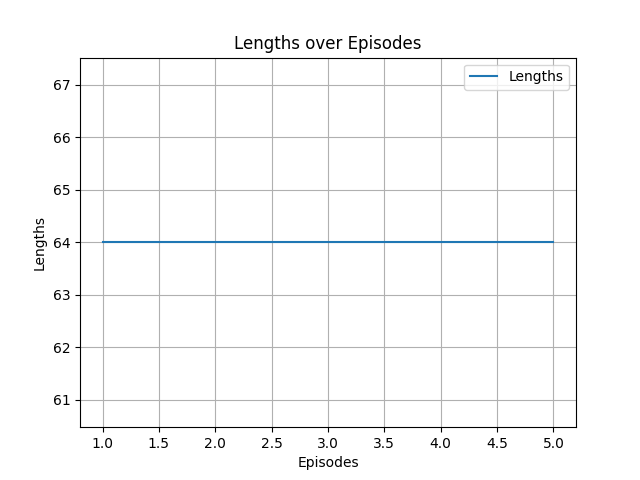
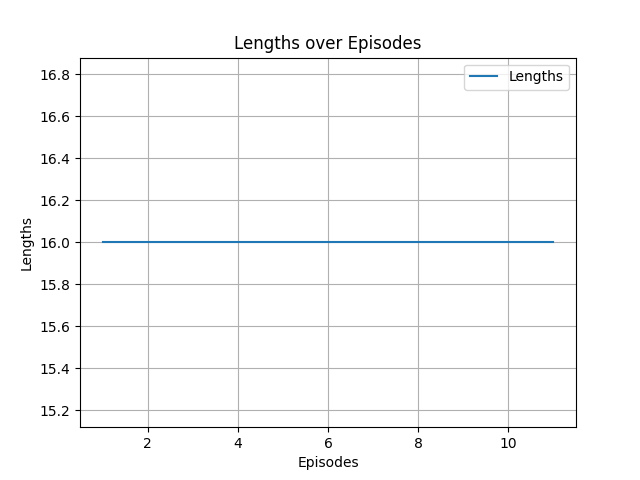
fixed plotting issues

diff --git a/visualize_metrics.py b/visualize_metrics.py
@@ -3,7 +3,6 @@ import matplotlib.pyplot as plt
 import os
 import re
 
-
 def parse_log_file(log_file):
     """
     Parse the log file to extract metrics for visualization.
@@ -26,38 +25,44 @@ def parse_log_file(log_file):
 
     # Precompile regex patterns for efficiency
     patterns = {
-        "episode": re.compile(r"Starting episode (\d+)"),
-        "reward": re.compile(r"Episode \d+ \| Reward: ([\d.]+) \| Length: (\d+)"),
+        "episode": re.compile(r"^Episode (\d+)"),
+        "reward": re.compile(r"^Reward: ([\d.]+)"),
+        "length": re.compile(r"^Length: (\d+)"),
         "policy_loss": re.compile(r"Policy Loss: ([\d\-.]+)"),
         "value_loss": re.compile(r"Value Loss: ([\d\-.]+)"),
         "entropy": re.compile(r"Entropy: ([\d.]+)")
     }
 
+    current_episode = None  # Track the current episode being processed
+
     with open(log_file, "r") as file:
         for line in file:
-            # Match episode start
+            # Match episode number
             if match := patterns["episode"].match(line):
-                metrics["episodes"].append(int(match.group(1)))
+                current_episode = int(match.group(1))
+                metrics["episodes"].append(current_episode)
 
-            # Match reward and length
-            if match := patterns["reward"].match(line):
+            # Match reward
+            elif match := patterns["reward"].match(line):
                 metrics["rewards"].append(float(match.group(1)))
-                metrics["lengths"].append(int(match.group(2)))
+
+            # Match length
+            elif match := patterns["length"].match(line):
+                metrics["lengths"].append(int(match.group(1)))
 
             # Match policy loss
-            if match := patterns["policy_loss"].match(line):
+            elif match := patterns["policy_loss"].match(line):
                 metrics["policy_losses"].append(float(match.group(1)))
 
             # Match value loss
-            if match := patterns["value_loss"].match(line):
+            elif match := patterns["value_loss"].match(line):
                 metrics["value_losses"].append(float(match.group(1)))
 
             # Match entropy
-            if match := patterns["entropy"].match(line):
+            elif match := patterns["entropy"].match(line):
                 metrics["entropies"].append(float(match.group(1)))
 
     return metrics
-
 
 def plot_metrics(metrics, save_dir=None):
     """
@@ -94,41 +99,14 @@ def plot_metrics(metrics, save_dir=None):
         else:
             plt.show()
 
-
 def visualize_metrics(log_file=None, csv_file=None, save_dir=None):
-    """
-    Parse log or CSV file and generate plots for visualization.
-
-    :param log_file: Path to the log file (optional).
-    :param csv_file: Path to the CSV file (optional).
-    :param save_dir: Directory to save the plots (optional).
-    """
-    if not log_file and not csv_file:
-        raise ValueError("Either log_file or csv_file must be provided.")
-
-    # Parse data from the appropriate source
-    if log_file:
-        print(f"Parsing log file: {log_file}")
-        metrics = parse_log_file(log_file)
-    elif csv_file:
-        print(f"Parsing CSV file: {csv_file}")
-        if not os.path.exists(csv_file):
-            raise FileNotFoundError(f"CSV file not found: {csv_file}")
-        df = pd.read_csv(csv_file)
-        metrics = {col.lower(): df[col].tolist() for col in df.columns}
-
-    # Generate plots
+    metrics = parse_log_file(log_file)
     print("Generating plots...")
     plot_metrics(metrics, save_dir)
 
-
 # Example usage
 if __name__ == "__main__":
-    log_file_path = "logs/fpa_game_logs_20241204-231152.log"
-    csv_file_path = "Model Checkpoints/training_metrics.csv"  # CSV file path
+    log_file_path = "logs/fpa_game_logs_20241204-235814.log"
     save_plots_directory = "plots"  # Directory to save plots
-
-    # Call visualization
     visualize_metrics(log_file=log_file_path, save_dir=save_plots_directory)
-    # OR
-    # visualize_metrics(csv_file=csv_file_path, save_dir=save_plots_directory)
+    print("Visualization complete.")

diff --git a/train.py b/train.py
@@ -47,17 +47,6 @@ logger.handlers.clear()  # Remove existing handlers
 logger.addHandler(console_handler)  # Add the console handler
 logger.addHandler(logging.FileHandler(log_filename))  # Add the file handler with a unique name
 
-def save_metrics(metrics, save_dir, episode_count):
-    """
-    Save metrics to a file for later analysis.
-    """
-    metrics_file = os.path.join(save_dir, "metrics.csv")
-    with open(metrics_file, "a") as f:
-        if episode_count == 1:  # Write header on the first save
-            f.write("Episode,Reward,Length,PolicyLoss,ValueLoss,Entropy\n")
-        for i in range(len(metrics["episode_rewards"])):
-            f.write(f"{episode_count},{metrics['episode_rewards'][i]},{metrics['episode_lengths'][i]},")
-
 def main():
     """
     Main function to set up the environment, enter the tutorial level, and run training
@@ -165,13 +154,15 @@ def main():
 
             
             # Logging metrics
-            logging.info(f"Episode {episode_count} | Reward: {episode_reward:.2f} | Length: {episode_length}")
+            logging.info(f"Episode {episode_count}")
+            logging.info(f"Reward: {episode_reward:.2f}")
+            logging.info(f"Length: {episode_length}")
             logging.info(f"PPO Loss: {ppo_loss:.4f}")
             
             # Save metrics periodically
-            if episode_count % config.get('save_interval', 10) == 0:
-                save_metrics(metrics, models_dir, episode_count)
-                logging.info(f"Metrics saved for Episode {episode_count}")
+            if episode_count % config.get('save_interval', 30) == 0:
+                save(os.path.join(models_dir, f"ppo_model_{current_time}.pt"), ppo)
+                logging.info(f"Model saved at episode {episode_count}")
             
             # Timeout handling
             if time.time() - start_time > timeout:
